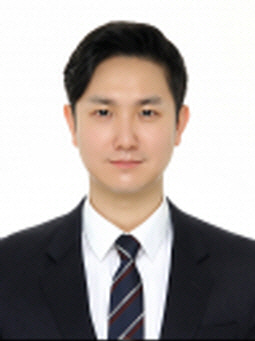
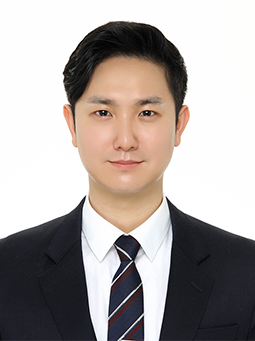
사진 수정 및 일부 프로젝트 수정 commit

diff --git a/index.html b/index.html
@@ -471,18 +471,20 @@
 				               </div>
 				               <div class="timeline-label">
 				               	<h2> BLOG <span> 2022.07.24 ~ 2022.08.01 </span></h2>
-				               	  <h2 style="color:#46AAFF;"><strong>JSP Blog</strong></h2>	
+				               	  <h2 style="color:#46AAFF;"><strong>JSP Account book</strong></h2>	
 				                  <p>
-				                  	<img src="images/blog_portfolio1.png" style="width: 80%; height: 80%">
+				                  	<button type="button" class="btn btn-link" onclick="window.open('http://43.200.126.220/emp/index.jsp')">
+				                  		<img src="images/cashbook_portfolio.png" style="width: 80%; height: 80%">
+				                  	</button>
 				                  </p>
 				                  <p>
 				                  	<strong>Keyword</strong> <br>
-				                  	# Blog # JSP # CRUD # Java # 로그인세션 # 달력
+				                  	# 가계부 # JSP # CRUD # Java # 로그인세션 # 달력 
 				                  	<br>
 				                  </p>
 				                  <p>
 				                 	<br>
-				                 	수업시간에 배우는 것을 활용해보고 싶어서 JSP를 배우며 처음으로 웹 페이지를 만들어 보았습니다.<br>
+				                 	수업시간에 배우는 것을 활용해보고 싶어서 JSP를 배우며 웹 페이지를 만들어 보았습니다.<br>
 				                  	Back-End와 웹 클라이언트기술을 이용하여 만든 첫 프로젝트입니다.<br>
 				                  	RDBMS를 연동한 것도 처음이였고 연동하여 CRUD를 가능하게 했습니다.<br>
 				                  	수업시간에 배운 Calendar와 Session기능을 활용한 회원가입 / 로그인을 구현했습니다.<br>
@@ -496,9 +498,9 @@
 				                  	OS : Window10 <br>
 				                  	Library : BootStrap4, jQuery(3.6) <br>
 				                  	Language : HTML5, CSS3 , Java(JavaSE-11), JavaScript(ES6)<br>
-				                  	Database : MariaDB(10.3) <br>
+				                  	Database : MariaDB(10.5.19) <br>
 				                  	WAS : Apache Tomcat(9.0.64) <br>
-				                  	IDE : Eclipse(2021-12 (4.22.0))
+				                  	IDE : Eclipse(2022-10-18 (11.0.17))
 				                  </p>
 				                  <p>
 				                  	<button type="button" class="btn btn-link" onclick="window.open('images/blog-erd.png')">ERD</button>
@@ -515,45 +517,34 @@
 				                  <i class="icon-pen2"></i>
 				               </div>
 				               <div class="timeline-label">
-				               	<h2> MINI PORTFOLIO2 <span> 2022.05.04 ~ 2022.06.14 </span></h2> 
-				               	  <h2 style="color:#46AAFF;"><strong>Java로만 만든 지역화폐</strong></h2>	
+				               	<h2> MINI PORTFOLIO <span> 2022.10.18 ~ 2022.11.18 </span></h2> 
+				               	  <h2 style="color:#46AAFF;"><strong>Java 기초와 Employee DB를 활용한 간단한 관리시스템</strong></h2>	
 				                  <p>
 				                  	<img src="images/emp_mini_portfolio.png" style="width: 80%; height: 80%" >
 				                  </p>
 				                  <p>
 				                  	<strong>Keyword</strong> <br>
-				                  	# Java
+				                  	# Java 
 				                  	<br>
 				                  </p>
 				                  <p>
 				                    <br>
-				                  	프로그래밍을 배우고 처음 만든 미니프로젝트입니다.<br>
-									1개월 정도 자바를 배우면서 아래 버전들을 차례대로 만들었습니다.<br>
-									처음 배우는 프로그래밍이라 수업만 듣는 것보다 배운 것을 활용하면서<br>
-									실제로 무언가를 만들어냈다는 성취감을 처음으로 알게 해준 프로젝트입니다.<br>
-									<br>
-									□ BANK VER01 - operator<br>
-									□ BANK VER02 - IF<br>
-									□ BANK VER03 - FOR<br>
-									□ BANK VER04 - STRING<br>
-									□ BANK VER05 - 1차원배열<br>
-									□ BANK VER06 - 2차원배열<br>
-									□ BANK VER07 - CLASS  VER<br>
-									□ BANK VER08 - MODIFIER VER<br>
-									□ BANK VER09 - CONTROLLER VER<br>
-									□ BANK VER10 - CLASS ARR<br>
-									□ BANK VER11 - EXTENDS<br>
-									□ BANK VER12 - INTERFACE VER<br>
+				                  	프로그래밍을 배우고 처음 만들어본 미니 프로젝트입니다.<br>
+									1개월 정도 Java기초와 html을 배우면서 만들었습니다.<br>
+									처음 배우는 프로그래밍이라 실제로 무언가를 만들어냈다는 성취감을 처음으로 알게 해준 프로젝트입니다.<br>
 									<br>
 				                  </p>
 				                  <p>
 				                  	<strong>Development Environment</strong> <br>
 				                  	OS : Window10 <br>
-				                  	Language : Java(JavaSE-11)<br>
-				                  	IDE : Eclipse(2021-12 (4.22.0))
+				                  	Library : BootStrap5
+				                  	Language : HTML5, CSS3 , Java(JavaSE-11)<br>
+				                  	IDE : Eclipse(2022-10-18 (11.0.17))
+				                  	Database : MariaDB(10.5.19) <br>
+				                  	WAS : Apache Tomcat(9.0.64) <br>
 				                  </p>
 				                  <p>
-				                  	<button type="button" class="btn btn-primary" onclick="window.open('https://youtu.be/OkhNs44a6Bs')">동영상</button>
+				                  	<button type="button" class="btn btn-primary" onclick="window.open('https://youtu.be')">동영상</button>
 				                  </p>
 				               </div>
 				            </div>
@@ -579,8 +570,8 @@
 								<div class="desc">
 									<h3>IT</h3>
 									<div class="text-left" style="font-size: 12px">
-								 	 • 컴퓨터활용능력2급<br>
-									 • 워드프로세서2급<br>
+								 	 • 컴퓨터활용능력 2급<br>
+									 • 워드프로세서 2급<br>
 									 • 정보기술자격(ITQ)<br>
 									  아래한글 A급<br>
 									 <div style="font-size: 12px">
